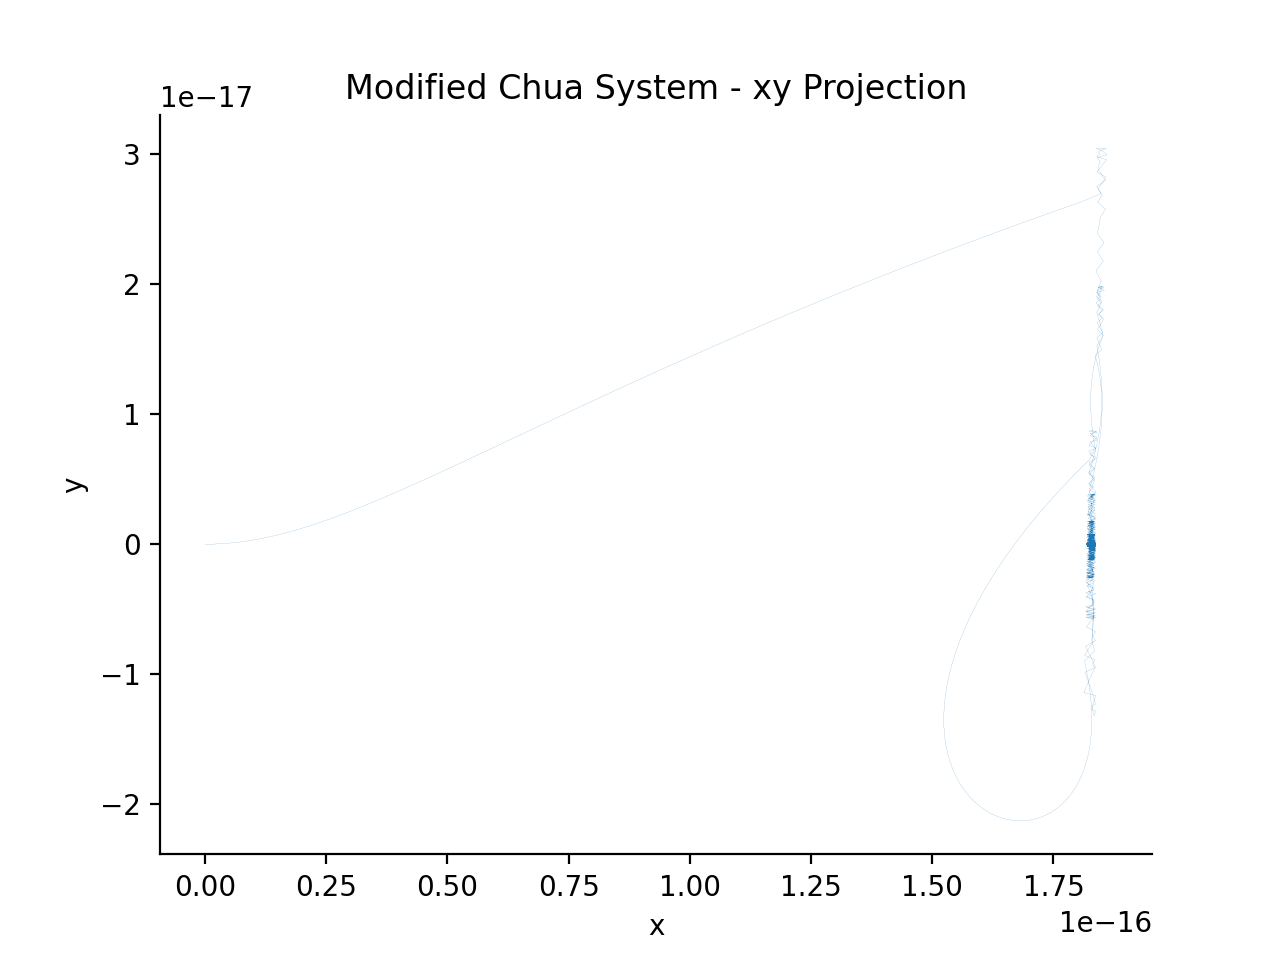
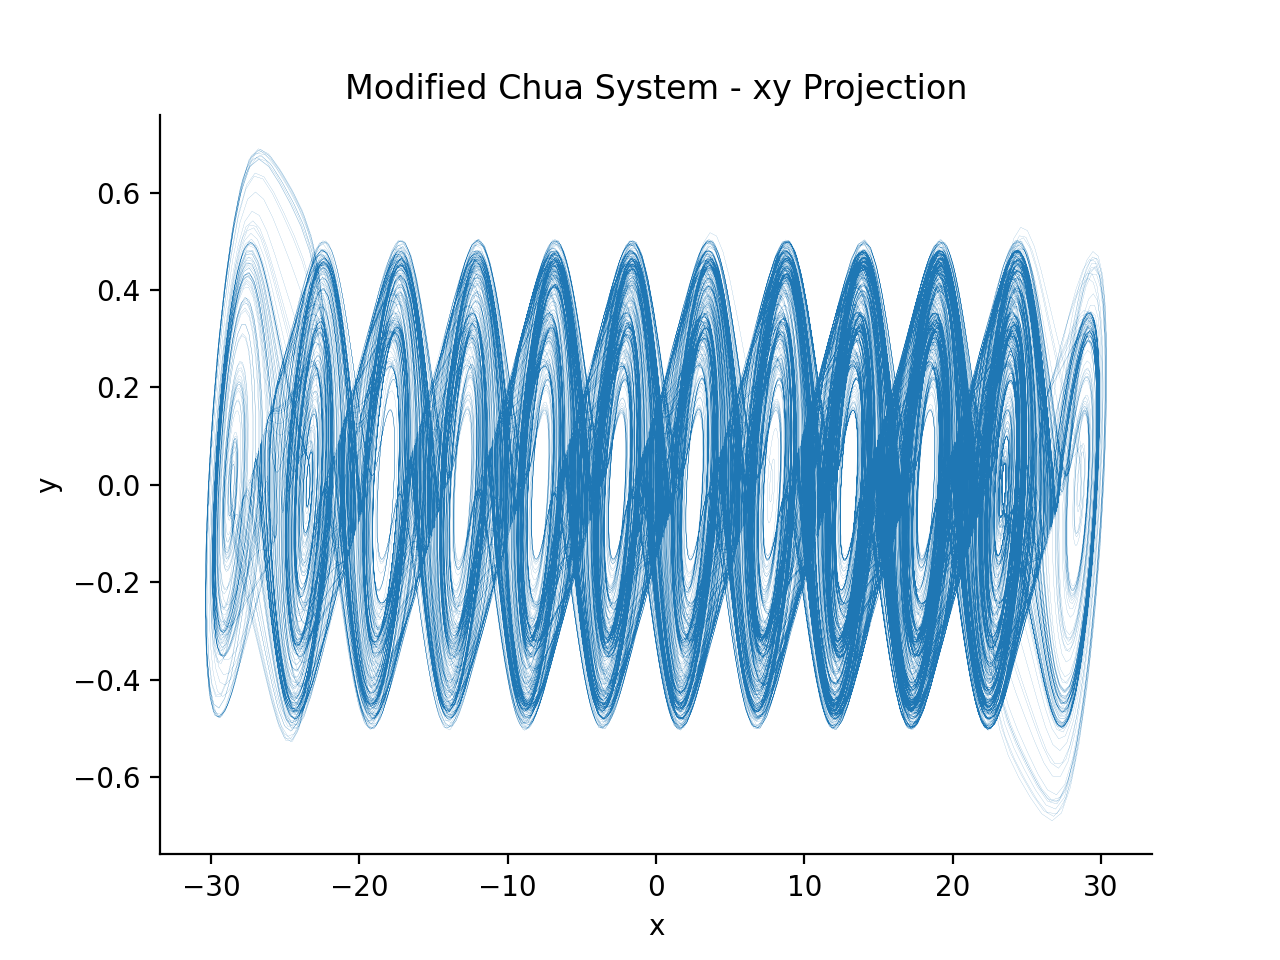
playing around with modelling

diff --git a/Lorenz Attractor Code.py b/Lorenz Attractor Code.py
@@ -809,14 +809,14 @@ if __name__ == "__main__":
     init_rf = np.array([-1, 0, 0.5])
     init_chen = np.array([-10, 0, 37])
     init_henon = np.array([0, 0])
-    init_m_chua = np.array([0, 0, 0])
+    init_m_chua = np.array([1, 0, 0])
     init_duffing = np.array([0, 0, 0])
 
-    init = init_lorenz
+    init = init_m_chua
 
     # step
-    dt = 0.01
-    num_steps_to_stop = 10000 # the number of steps that the simulation goes through before stopping
+    dt = 0.1
+    num_steps_to_stop = 100000 # the number of steps that the simulation goes through before stopping
 
     params_custom = [] # choose your own parameters
 
@@ -825,29 +825,29 @@ if __name__ == "__main__":
     params_rf = [0.14, 0.1] # a, b
     params_chen = [35, 3, 28] # a, b, c
     params_henon = [1.4, 0.3] # a, b
-    params_m_chua = [10.814, 14.0, 1.3, 0.11, 8, np.pi] # alpha, Beta, a, b, c, d. Note that c is odd => d = 0, c is even => d = pi
+    params_m_chua = [10.814, 14.0, 1.3, 0.11, 11, 0] # alpha, Beta, a, b, c, d. Note that c is odd => d = 0, c is even => d = pi
     params_duffing = [1, -1, 0.2, 0.3, 1] # aplha, Beta, gamma, delta, omega 
 
     # choose which parameter set you could like to use while modelling
-    params = params_lorenz
+    params = params_m_chua
 
     # Commands:
     runtime = 1 # get runtime
-    system = lorenz # choose system to model
+    system = modified_chua # choose system to model
     # modelling methods:
     EM = 0
     improved_EM = 0
-    RK4 = 0
-    RK8 = 1
+    RK4 = 1
+    RK8 = 0
     model_henon = 0
     # plotting:
-    plot_all = 0
+    plot_all = 1
     plot = 0
     plot_xy = 0
     plot_xz = 0
     plot_yz = 0
     # analysis:
-    sensitive_dependance, disturbance = 1, 0.0001
+    sensitive_dependance, disturbance = 0, 0.0001
     orbit_sep, method, sub_method, d0 = 0, runge_kutta, runge_kutta_4, 1e-8
     GS = 0
     Poincare = 0
